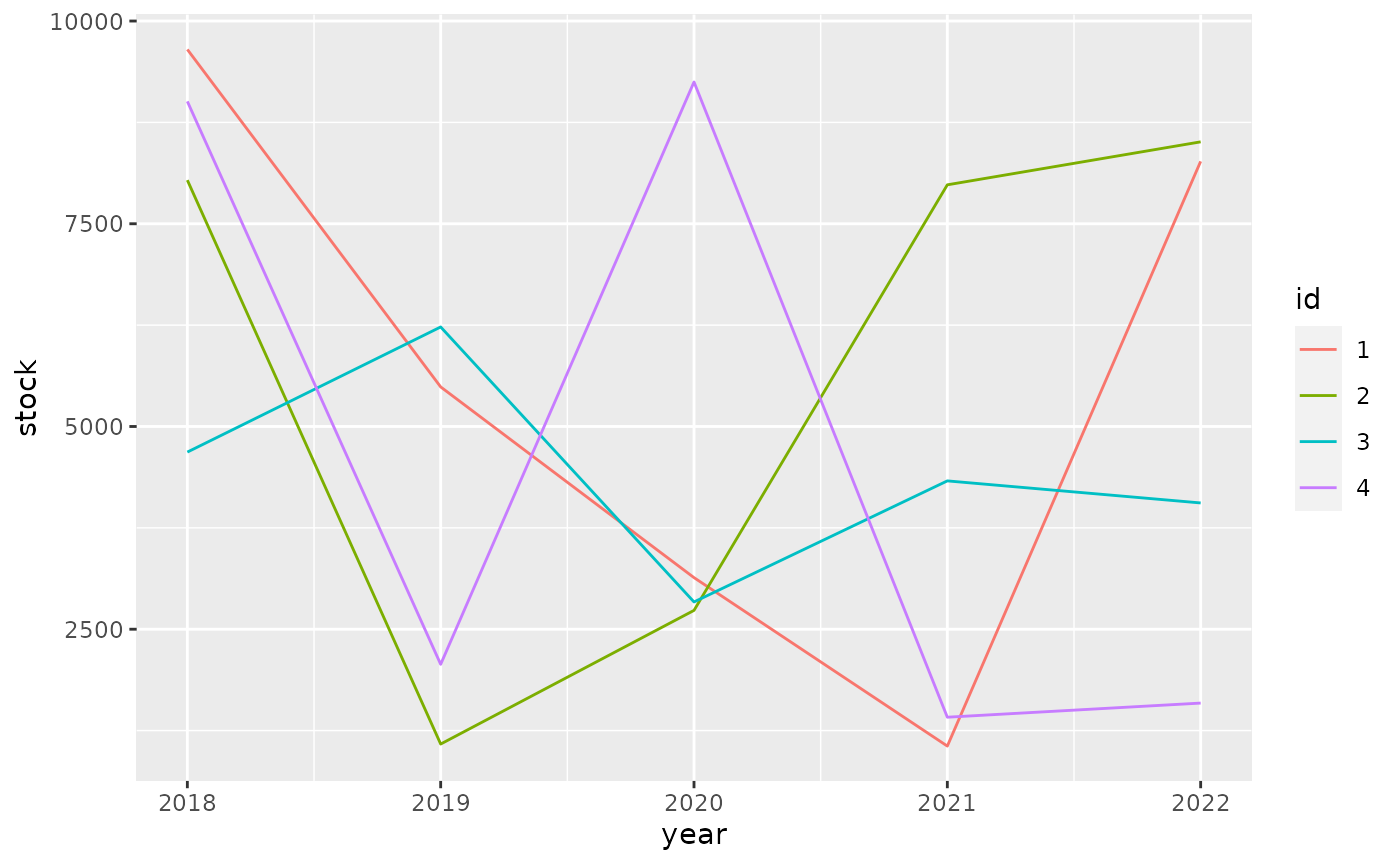
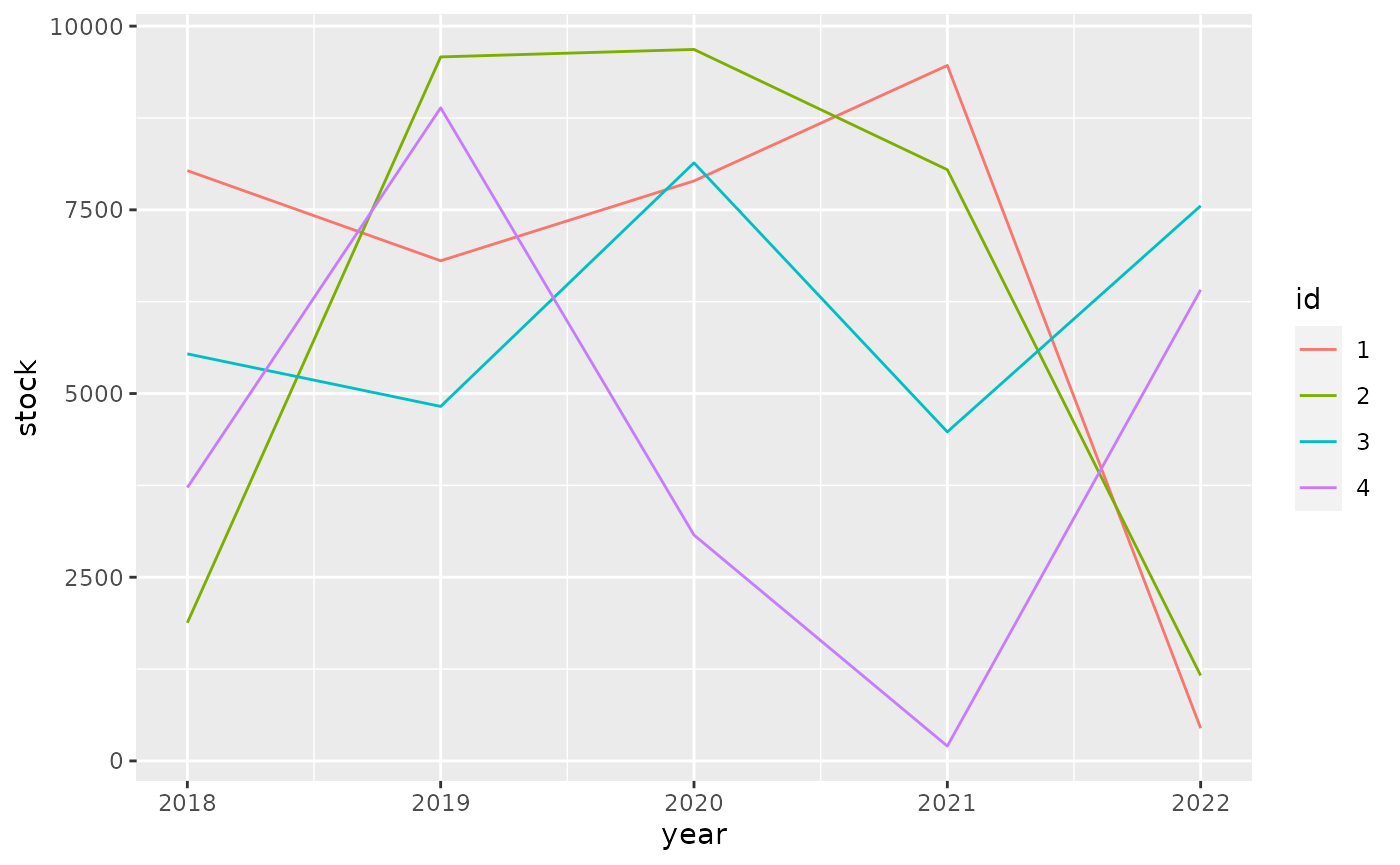
Built site for tibble: 3.1.6.9000@eac1191

diff --git a/dev/articles/formats.html b/dev/articles/formats.html
@@ -227,10 +227,10 @@
 <span class="co">#&gt; <span style="color: #949494;"># A tibble: 4 × 6</span></span>
 <span class="co">#&gt;   id       `2018`    `2019`    `2020`    `2021`    `2022`</span>
 <span class="co">#&gt;   <span style="color: #949494; font-style: italic;">&lt;fct&gt;</span> <span style="color: #949494; font-style: italic;">&lt;dbl:fmt&gt;</span> <span style="color: #949494; font-style: italic;">&lt;dbl:fmt&gt;</span> <span style="color: #949494; font-style: italic;">&lt;dbl:fmt&gt;</span> <span style="color: #949494; font-style: italic;">&lt;dbl:fmt&gt;</span> <span style="color: #949494; font-style: italic;">&lt;dbl:fmt&gt;</span></span>
-<span class="co">#&gt; <span style="color: #BCBCBC;">1</span> 1     $9,649.61 $5,487.93 $3,136.21 $1,058.89 $8,269.44</span>
-<span class="co">#&gt; <span style="color: #BCBCBC;">2</span> 2     $8,038.02 $1,083.95 $2,732.26 $7,980.15 $8,510.14</span>
-<span class="co">#&gt; <span style="color: #BCBCBC;">3</span> 3     $4,684.26 $6,227.20 $2,836.25 $4,329.15 $4,057.18</span>
-<span class="co">#&gt; <span style="color: #BCBCBC;">4</span> 4     $9,009.23 $2,066.95 $9,248.55 $1,414.93 $1,589.15</span></code></pre></div>
+<span class="co">#&gt; <span style="color: #BCBCBC;">1</span> 1     $8,033.47 $6,806.76 $7,893.09 $9,464.28   $445.36</span>
+<span class="co">#&gt; <span style="color: #BCBCBC;">2</span> 2     $1,880.35 $9,581.04 $9,682.72 $8,045.97 $1,162.35</span>
+<span class="co">#&gt; <span style="color: #BCBCBC;">3</span> 3     $5,539.78 $4,824.58 $8,139.24 $4,478.39 $7,554.62</span>
+<span class="co">#&gt; <span style="color: #BCBCBC;">4</span> 4     $3,720.15 $8,888.73 $3,074.31   $202.03 $6,411.55</span></code></pre></div>
 <p>For ggplot2 we need to do <a href="https://github.com/tidyverse/ggplot2/pull/4065" class="external-link">some work</a> to show apply the formatting to the scales.</p>
 <div class="sourceCode" id="cb6"><pre class="downlit sourceCode r">
 <code class="sourceCode R"><span class="kw"><a href="https://rdrr.io/r/base/library.html" class="external-link">library</a></span><span class="op">(</span><span class="va"><a href="https://ggplot2.tidyverse.org" class="external-link">ggplot2</a></span><span class="op">)</span>
@@ -241,10 +241,10 @@
   <span class="fu"><a href="https://ggplot2.tidyverse.org/reference/geom_path.html" class="external-link">geom_line</a></span><span class="op">(</span><span class="op">)</span></code></pre></div>
 <p><img src="formats_files/figure-html/unnamed-chunk-7-1.png" width="700"></p>
 <p>It pays off to specify formatting very early in the process. The diagram below shows the principal stages of data analysis and exploration from “R for data science”.</p>
-<div id="htmlwidget-8d1ad772ea944aec19d0" style="width:700px;height:432.632880098888px;" class="DiagrammeR html-widget"></div>
-<script type="application/json" data-for="htmlwidget-8d1ad772ea944aec19d0">{"x":{"diagram":"graph TD\n  Import --> Tidy\n  Tidy --> Transform\n  Transform --> Visualize\n  Visualize --> Communicate\n  Visualize --> Model\n  Model -.-> Transform"},"evals":[],"jsHooks":[]}</script><p>The subsequent diagram adds data formats, communication options, and explicit data formatting. The original r4ds transitions are highlighted in bold. There are two principal options where to apply formatting for results: right before communicating them, or right after importing.</p>
-<div id="htmlwidget-dfa28db41e0e64e74adb" style="width:700px;height:432.632880098888px;" class="DiagrammeR html-widget"></div>
-<script type="application/json" data-for="htmlwidget-dfa28db41e0e64e74adb">{"x":{"diagram":"graph TD\n  .csv --> Import\n  API --> Import\n  DBI --> Import\n  dbplyr --> Import\n  Import -.-> Format[Format for analysis]\n  Format -.-> Tidy\n\n  subgraph r4ds\n  Import ==> Tidy\n  Tidy ==> Transform\n  Transform ==> Visualize\n  Visualize ==> Model\n  Model -.-> Transform\n  Visualize ==> Communicate\n  end\n\n  Visualize -.-> FormatComm[Format for communication]\n  FormatComm -.-> Communicate\n\n  FormatComm -- Apply formatting early --> Format\n\n  dbplyr -.-> Tidy\n  dbplyr -.-> Transform\n  dbplyr -.-> Visualize\n\n  Communicate --> gt\n  Communicate --> ggplot2\n  Communicate --> DT\n  Communicate --> plotly"},"evals":[],"jsHooks":[]}</script><p>Applying formatting early in the process gives the added benefit of showing the data in a useful format during the “Tidy”, “Transform”, and “Visualize” stages. For this to be useful, we need to ensure that the formatting options applied early:</p>
+<div id="htmlwidget-f1210abe0b2040d42611" style="width:700px;height:432.632880098888px;" class="DiagrammeR html-widget"></div>
+<script type="application/json" data-for="htmlwidget-f1210abe0b2040d42611">{"x":{"diagram":"graph TD\n  Import --> Tidy\n  Tidy --> Transform\n  Transform --> Visualize\n  Visualize --> Communicate\n  Visualize --> Model\n  Model -.-> Transform"},"evals":[],"jsHooks":[]}</script><p>The subsequent diagram adds data formats, communication options, and explicit data formatting. The original r4ds transitions are highlighted in bold. There are two principal options where to apply formatting for results: right before communicating them, or right after importing.</p>
+<div id="htmlwidget-9a710c0b683374c47e7e" style="width:700px;height:432.632880098888px;" class="DiagrammeR html-widget"></div>
+<script type="application/json" data-for="htmlwidget-9a710c0b683374c47e7e">{"x":{"diagram":"graph TD\n  .csv --> Import\n  API --> Import\n  DBI --> Import\n  dbplyr --> Import\n  Import -.-> Format[Format for analysis]\n  Format -.-> Tidy\n\n  subgraph r4ds\n  Import ==> Tidy\n  Tidy ==> Transform\n  Transform ==> Visualize\n  Visualize ==> Model\n  Model -.-> Transform\n  Visualize ==> Communicate\n  end\n\n  Visualize -.-> FormatComm[Format for communication]\n  FormatComm -.-> Communicate\n\n  FormatComm -- Apply formatting early --> Format\n\n  dbplyr -.-> Tidy\n  dbplyr -.-> Transform\n  dbplyr -.-> Visualize\n\n  Communicate --> gt\n  Communicate --> ggplot2\n  Communicate --> DT\n  Communicate --> plotly"},"evals":[],"jsHooks":[]}</script><p>Applying formatting early in the process gives the added benefit of showing the data in a useful format during the “Tidy”, “Transform”, and “Visualize” stages. For this to be useful, we need to ensure that the formatting options applied early:</p>
 <ul>
 <li>give a good user experience for analysis
 <ul>

diff --git a/dev/articles/types.html b/dev/articles/types.html
@@ -358,7 +358,7 @@
 <span class="co">#&gt; $ factor        <span style="color: #949494; font-style: italic;">&lt;fct&gt;</span> A</span>
 <span class="co">#&gt; $ ordered       <span style="color: #949494; font-style: italic;">&lt;ord&gt;</span> a</span>
 <span class="co">#&gt; $ Date          <span style="color: #949494; font-style: italic;">&lt;date&gt;</span> 2021-10-27</span>
-<span class="co">#&gt; $ POSIXt        <span style="color: #949494; font-style: italic;">&lt;dttm&gt;</span> 2021-10-27 16:39:02</span>
+<span class="co">#&gt; $ POSIXt        <span style="color: #949494; font-style: italic;">&lt;dttm&gt;</span> 2021-10-27 17:03:25</span>
 <span class="co">#&gt; $ difftime      <span style="color: #949494; font-style: italic;">&lt;drtn&gt;</span> 1 secs</span>
 <span class="co">#&gt; $ hms           <span style="color: #949494; font-style: italic;">&lt;time&gt;</span> 00:00:01</span>
 <span class="co">#&gt; $ integer64     <span style="color: #949494; font-style: italic;">&lt;int64&gt;</span> 10000000000</span>
@@ -394,7 +394,7 @@
 <span class="co">#&gt;             "sym"</span>
 <span class="co">#&gt;         }, typeof(x))</span>
 <span class="co">#&gt; }</span>
-<span class="co">#&gt; &lt;bytecode: 0x55c54af5b3f8&gt;</span>
+<span class="co">#&gt; &lt;bytecode: 0x55ac06353098&gt;</span>
 <span class="co">#&gt; &lt;environment: namespace:pillar&gt;</span></code></pre></div>
 </div>
   </div>

diff --git a/dev/reference/as_tibble.html b/dev/reference/as_tibble.html
@@ -133,7 +133,7 @@ in contrast with <code><a href="tibble.html">tibble()</a></code>, which builds a
 <code><a href="https://rdrr.io/r/base/data.frame.html" class="external-link">base::data.frame()</a></code>.</p>
 <p><code>as_tibble()</code> is an S3 generic, with methods for:</p><ul><li><p><code><a href="https://rdrr.io/r/base/data.frame.html" class="external-link">data.frame</a></code>: Thin wrapper around the <code>list</code> method
 that implements tibble's treatment of <a href="rownames.html">rownames</a>.</p></li>
-<li><p><code>matrix</code>, <code><a href="https://rdrr.io/r/stats/poly.html" class="external-link">poly</a></code>,
+<li><p><code><a href="https://rdrr.io/r/base/matrix.html" class="external-link">matrix</a></code>, <code><a href="https://rdrr.io/r/stats/poly.html" class="external-link">poly</a></code>,
 <code><a href="https://rdrr.io/r/stats/ts.html" class="external-link">ts</a></code>, <code><a href="https://rdrr.io/r/base/table.html" class="external-link">table</a></code></p></li>
 <li><p>Default: Other inputs are first coerced with <code><a href="https://rdrr.io/r/base/as.data.frame.html" class="external-link">base::as.data.frame()</a></code>.</p></li>
 </ul><p><code>as_tibble_row()</code> converts a vector to a tibble with one row.
